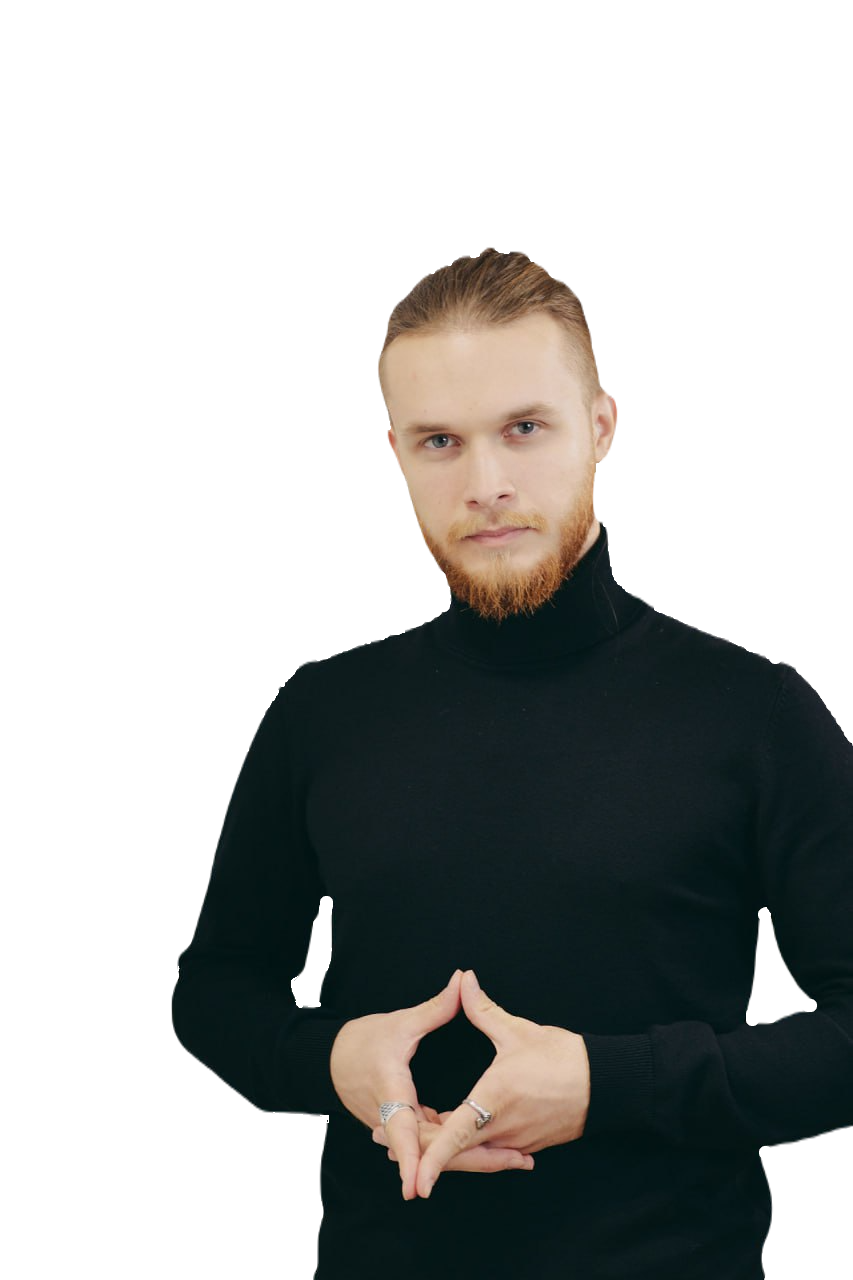
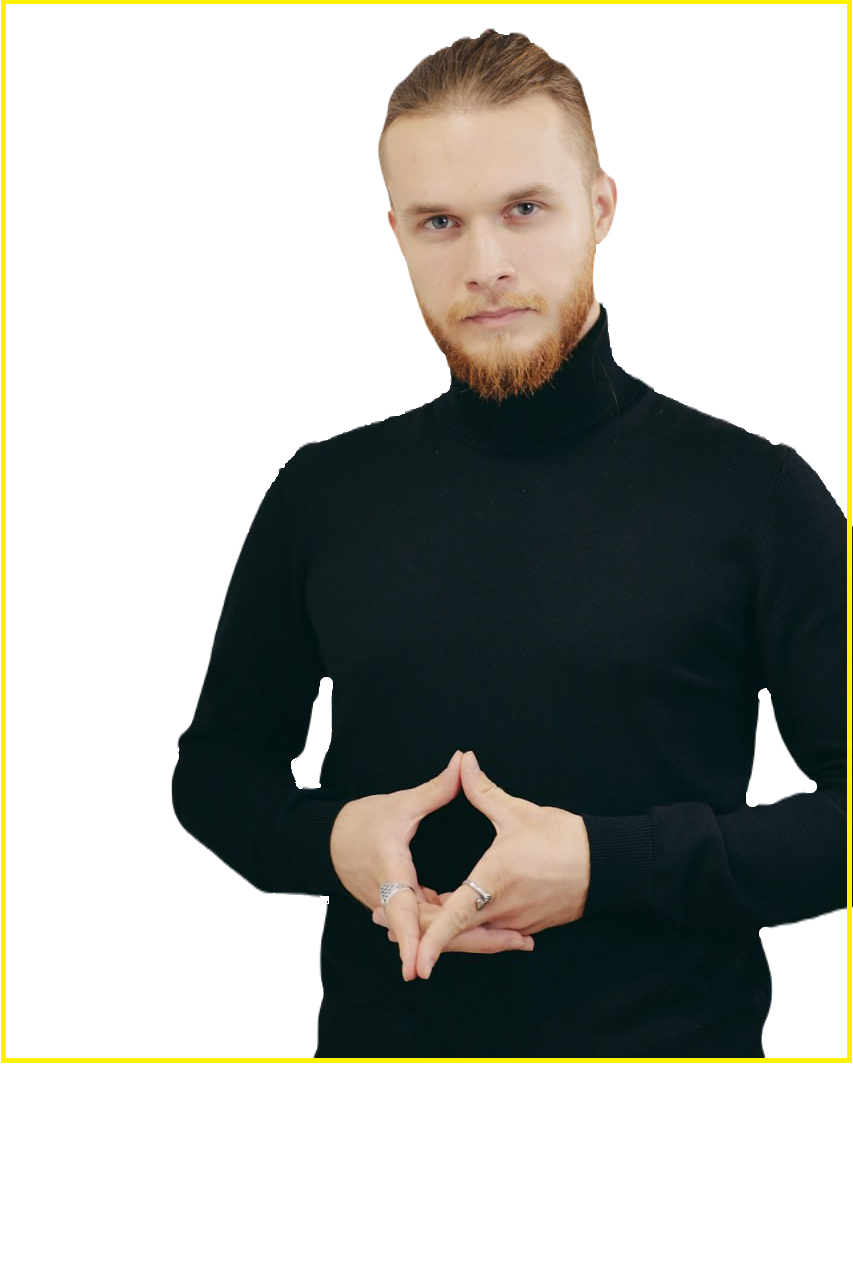
fix

diff --git a/InnAuthor/settings.py b/InnAuthor/settings.py
@@ -33,7 +33,7 @@ DEBUG = os.getenv('DEBUG', 'False').lower() == 'true'
 
 ALLOWED_HOSTS = os.getenv('ALLOWED_HOSTS', '').split(' ')
 
-CSRF_TRUSTED_ORIGINS = os.getenv('CSRF_TRUSTED_ORIGINS', '').split(' ')
+CSRF_TRUSTED_ORIGINS = os.getenv('CSRF_TRUSTED_ORIGINS', '*').split(' ')
 
 if DEBUG:
     CSRF_TRUSTED_ORIGINS.extend(['http://localhost:8080'])
